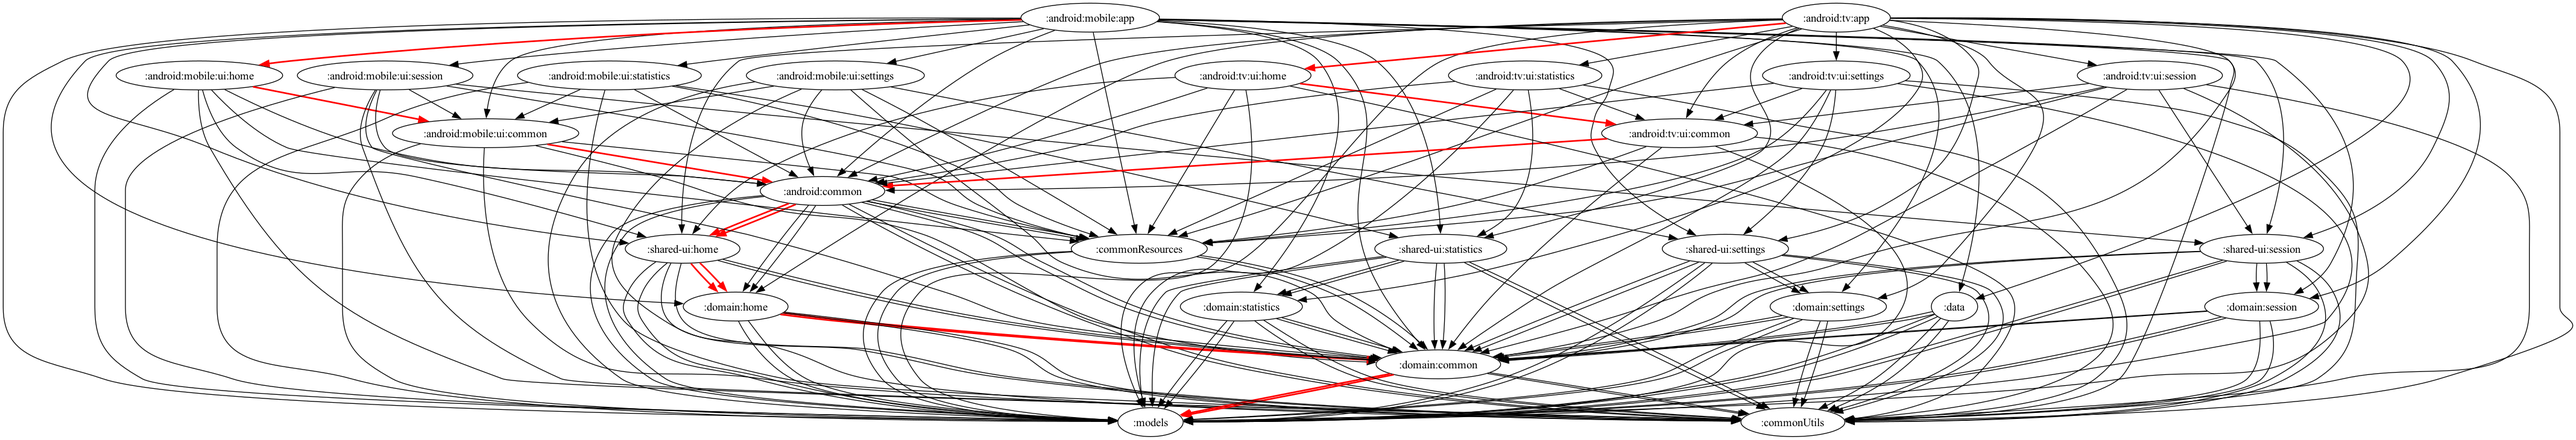
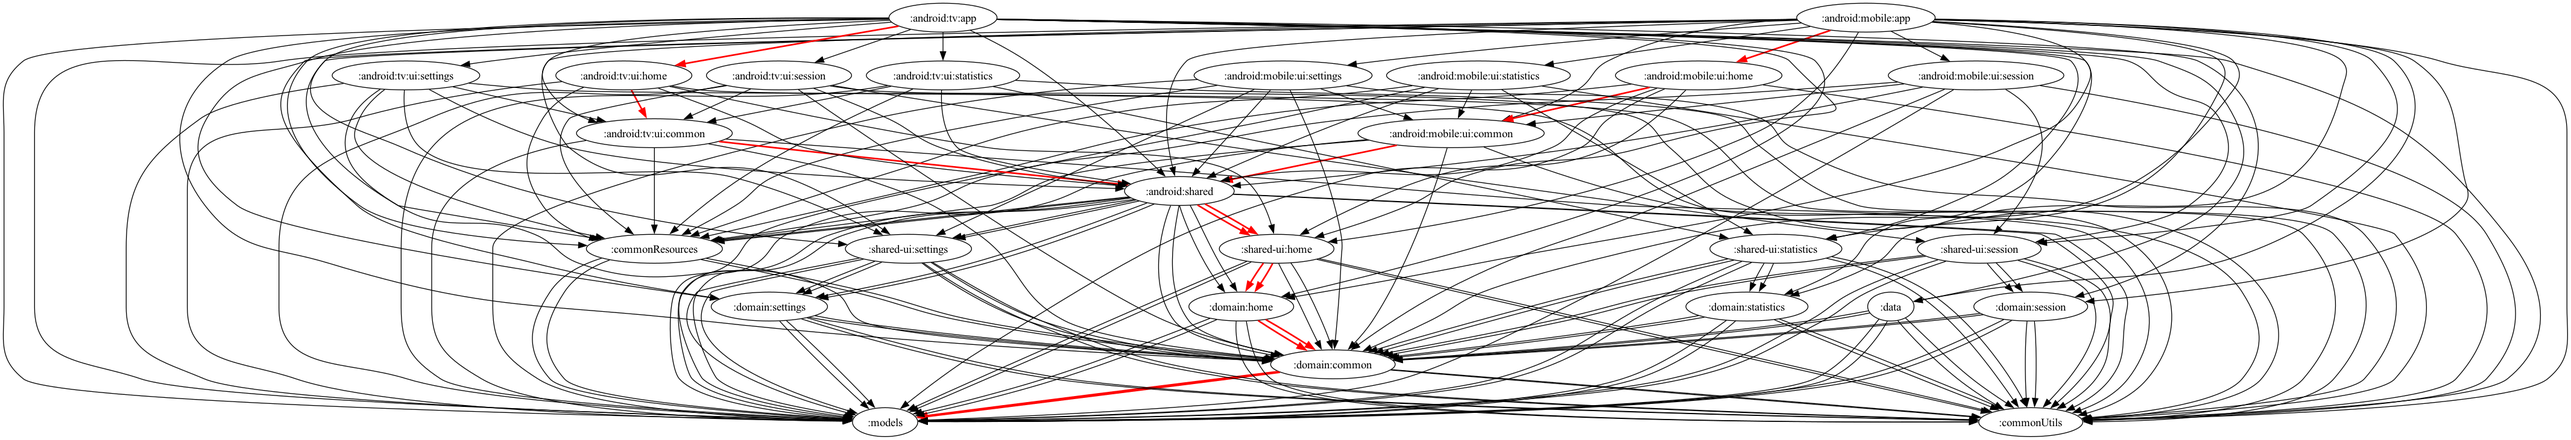
reorganisation of folders

diff --git a/android/mobile/ui/home/src/main/java/fr/shiningcat/simplehiit/android/mobile/ui/home/components/HomeTopBarComponent.kt b/android/mobile/ui/home/src/main/java/fr/shiningcat/simplehiit/android/mobile/ui/home/components/HomeTopBarComponent.kt
@@ -24,8 +24,8 @@ import androidx.compose.ui.res.vectorResource
 import androidx.compose.ui.tooling.preview.PreviewFontScale
 import androidx.compose.ui.tooling.preview.PreviewLightDark
 import androidx.compose.ui.tooling.preview.PreviewScreenSizes
-import fr.shiningcat.simplehiit.android.common.Screen
 import fr.shiningcat.simplehiit.android.mobile.ui.common.theme.SimpleHiitMobileTheme
+import fr.shiningcat.simplehiit.android.shared.core.Screen
 import fr.shiningcat.simplehiit.commonresources.R
 import fr.shiningcat.simplehiit.sharedui.home.HomeViewState
 
@@ -46,14 +46,14 @@ fun HomeTopBarComponent(
             )
         },
         actions = {
-            IconButton(onClick = { navigateTo(fr.shiningcat.simplehiit.android.common.Screen.About) }) {
+            IconButton(onClick = { navigateTo(fr.shiningcat.simplehiit.android.shared.core.Screen.About) }) {
                 Icon(
                     imageVector = ImageVector.vectorResource(R.drawable.question_mark),
                     contentDescription = stringResource(id = R.string.about_button_content_label),
                     tint = MaterialTheme.colorScheme.onPrimary,
                 )
             }
-            IconButton(onClick = { navigateTo(fr.shiningcat.simplehiit.android.common.Screen.Settings) }) {
+            IconButton(onClick = { navigateTo(fr.shiningcat.simplehiit.android.shared.core.Screen.Settings) }) {
                 Icon(
                     imageVector = ImageVector.vectorResource(R.drawable.cog),
                     contentDescription = stringResource(id = R.string.settings_button_content_label),
@@ -61,7 +61,7 @@ fun HomeTopBarComponent(
                 )
             }
             if (screenViewState is HomeViewState.Nominal) {
-                IconButton(onClick = { navigateTo(fr.shiningcat.simplehiit.android.common.Screen.Statistics) }) {
+                IconButton(onClick = { navigateTo(fr.shiningcat.simplehiit.android.shared.core.Screen.Statistics) }) {
                     Icon(
                         imageVector = ImageVector.vectorResource(R.drawable.bar_chart),
                         contentDescription = stringResource(id = R.string.statistics_button_content_label),

diff --git a/android/mobile/ui/home/src/main/java/fr/shiningcat/simplehiit/android/mobile/ui/home/HomeScreen.kt b/android/mobile/ui/home/src/main/java/fr/shiningcat/simplehiit/android/mobile/ui/home/HomeScreen.kt
@@ -13,8 +13,6 @@ import androidx.compose.ui.tooling.preview.PreviewParameter
 import androidx.compose.ui.tooling.preview.PreviewParameterProvider
 import androidx.compose.ui.tooling.preview.PreviewScreenSizes
 import androidx.lifecycle.compose.collectAsStateWithLifecycle
-import fr.shiningcat.simplehiit.android.common.Screen
-import fr.shiningcat.simplehiit.android.common.viewmodels.HomeViewModel
 import fr.shiningcat.simplehiit.android.mobile.ui.common.UiArrangement
 import fr.shiningcat.simplehiit.android.mobile.ui.common.components.NavigationSideBar
 import fr.shiningcat.simplehiit.android.mobile.ui.common.helpers.currentUiArrangement
@@ -22,6 +20,8 @@ import fr.shiningcat.simplehiit.android.mobile.ui.common.helpers.mainContentInse
 import fr.shiningcat.simplehiit.android.mobile.ui.common.theme.SimpleHiitMobileTheme
 import fr.shiningcat.simplehiit.android.mobile.ui.home.components.HomeTopBarComponent
 import fr.shiningcat.simplehiit.android.mobile.ui.home.contents.HomeContentHolder
+import fr.shiningcat.simplehiit.android.shared.core.Screen
+import fr.shiningcat.simplehiit.android.shared.home.HomeViewModel
 import fr.shiningcat.simplehiit.commonutils.HiitLogger
 import fr.shiningcat.simplehiit.domain.common.models.CyclesModification
 import fr.shiningcat.simplehiit.domain.common.models.User
@@ -57,7 +57,7 @@ fun HomeScreen(
 
 @Composable
 private fun HomeScreen(
-    navigateTo: (fr.shiningcat.simplehiit.android.common.Screen) -> Unit = {},
+    navigateTo: (fr.shiningcat.simplehiit.android.shared.core.Screen) -> Unit = {},
     onResetWholeApp: () -> Unit = {},
     onResetWholeAppDeleteEverything: () -> Unit = {},
     decreaseNumberOfCycles: () -> Unit = {},
@@ -74,7 +74,7 @@ private fun HomeScreen(
             NavigationSideBar(
                 // This component handles its own insets
                 navigateTo = navigateTo,
-                currentDestination = fr.shiningcat.simplehiit.android.common.Screen.Home,
+                currentDestination = fr.shiningcat.simplehiit.android.shared.core.Screen.Home,
                 showStatisticsButton = viewState is HomeViewState.Nominal,
             )
         }

diff --git a/android/tv/ui/home/src/main/java/fr/shiningcat/simplehiit/android/tv/ui/home/contents/HomeContentHolder.kt b/android/tv/ui/home/src/main/java/fr/shiningcat/simplehiit/android/tv/ui/home/contents/HomeContentHolder.kt
@@ -7,7 +7,7 @@ import androidx.compose.ui.tooling.preview.PreviewParameterProvider
 import androidx.tv.material3.ExperimentalTvMaterial3Api
 import androidx.tv.material3.MaterialTheme
 import androidx.tv.material3.Surface
-import fr.shiningcat.simplehiit.android.common.Screen
+import fr.shiningcat.simplehiit.android.shared.core.Screen
 import fr.shiningcat.simplehiit.android.tv.ui.common.components.BasicLoading
 import fr.shiningcat.simplehiit.android.tv.ui.common.components.DialogWarning
 import fr.shiningcat.simplehiit.android.tv.ui.common.previews.PreviewTvScreens
@@ -44,7 +44,7 @@ fun HomeContentHolder(
         }
         is HomeViewState.MissingUsers -> {
             HomeMissingUsersContent(
-                navigateToSettings = { navigateTo(fr.shiningcat.simplehiit.android.common.Screen.Settings) },
+                navigateToSettings = { navigateTo(fr.shiningcat.simplehiit.android.shared.core.Screen.Settings) },
             )
         }
         is HomeViewState.Nominal -> {
@@ -56,7 +56,7 @@ fun HomeContentHolder(
                 totalLengthFormatted = screenViewState.totalSessionLengthFormatted,
                 users = screenViewState.users,
                 toggleSelectedUser = toggleSelectedUser,
-                navigateToSession = { navigateTo(fr.shiningcat.simplehiit.android.common.Screen.Session) },
+                navigateToSession = { navigateTo(fr.shiningcat.simplehiit.android.shared.core.Screen.Session) },
                 warning = screenViewState.warning,
                 hiitLogger = hiitLogger,
             )

diff --git a/android/mobile/ui/settings/src/main/java/fr/shiningcat/simplehiit/android/mobile/ui/settings/SettingsScreen.kt b/android/mobile/ui/settings/src/main/java/fr/shiningcat/simplehiit/android/mobile/ui/settings/SettingsScreen.kt
@@ -15,8 +15,6 @@ import androidx.compose.ui.tooling.preview.PreviewParameter
 import androidx.compose.ui.tooling.preview.PreviewParameterProvider
 import androidx.compose.ui.tooling.preview.PreviewScreenSizes
 import androidx.lifecycle.compose.collectAsStateWithLifecycle
-import fr.shiningcat.simplehiit.android.common.Screen
-import fr.shiningcat.simplehiit.android.common.viewmodels.SettingsViewModel
 import fr.shiningcat.simplehiit.android.mobile.ui.common.UiArrangement
 import fr.shiningcat.simplehiit.android.mobile.ui.common.components.NavigateUpTopBar
 import fr.shiningcat.simplehiit.android.mobile.ui.common.components.NavigationSideBar
@@ -24,6 +22,8 @@ import fr.shiningcat.simplehiit.android.mobile.ui.common.helpers.currentUiArrang
 import fr.shiningcat.simplehiit.android.mobile.ui.common.helpers.mainContentInsets
 import fr.shiningcat.simplehiit.android.mobile.ui.common.theme.SimpleHiitMobileTheme
 import fr.shiningcat.simplehiit.android.mobile.ui.settings.contents.SettingsContentHolder
+import fr.shiningcat.simplehiit.android.shared.core.Screen
+import fr.shiningcat.simplehiit.android.shared.home.SettingsViewModel
 import fr.shiningcat.simplehiit.commonresources.R
 import fr.shiningcat.simplehiit.commonutils.HiitLogger
 import fr.shiningcat.simplehiit.domain.common.Constants

diff --git a/android/mobile/ui/statistics/src/main/java/fr/shiningcat/simplehiit/android/mobile/ui/statistics/StatisticsScreen.kt b/android/mobile/ui/statistics/src/main/java/fr/shiningcat/simplehiit/android/mobile/ui/statistics/StatisticsScreen.kt
@@ -13,7 +13,6 @@ import androidx.compose.ui.tooling.preview.PreviewParameter
 import androidx.compose.ui.tooling.preview.PreviewParameterProvider
 import androidx.compose.ui.tooling.preview.PreviewScreenSizes
 import androidx.lifecycle.compose.collectAsStateWithLifecycle
-import fr.shiningcat.simplehiit.android.common.Screen
 import fr.shiningcat.simplehiit.android.mobile.ui.common.UiArrangement
 import fr.shiningcat.simplehiit.android.mobile.ui.common.components.NavigationSideBar
 import fr.shiningcat.simplehiit.android.mobile.ui.common.helpers.currentUiArrangement
@@ -21,6 +20,7 @@ import fr.shiningcat.simplehiit.android.mobile.ui.common.helpers.mainContentInse
 import fr.shiningcat.simplehiit.android.mobile.ui.common.theme.SimpleHiitMobileTheme
 import fr.shiningcat.simplehiit.android.mobile.ui.statistics.components.StatisticsTopAppBar
 import fr.shiningcat.simplehiit.android.mobile.ui.statistics.contents.StatisticsContentHolder
+import fr.shiningcat.simplehiit.android.shared.core.Screen
 import fr.shiningcat.simplehiit.commonutils.HiitLogger
 import fr.shiningcat.simplehiit.domain.common.models.DisplayStatisticType
 import fr.shiningcat.simplehiit.domain.common.models.DisplayedStatistic

diff --git a/android/shared/src/main/java/fr/shiningcat/simplehiit/android/shared/di/SharedAndroidModule.kt b/android/shared/src/main/java/fr/shiningcat/simplehiit/android/shared/di/SharedAndroidModule.kt
@@ -1,16 +1,18 @@
-package fr.shiningcat.simplehiit.android.common.di
+package fr.shiningcat.simplehiit.android.shared.di
 
-import fr.shiningcat.simplehiit.android.common.NavigationViewModel
-import fr.shiningcat.simplehiit.android.common.viewmodels.HomeViewModel
-import fr.shiningcat.simplehiit.android.common.viewmodels.SettingsViewModel
+import fr.shiningcat.simplehiit.android.shared.core.NavigationViewModel
+import fr.shiningcat.simplehiit.android.shared.home.HomeViewModel
+import fr.shiningcat.simplehiit.android.shared.settings.SettingsViewModel
 import org.koin.core.module.dsl.viewModel
 import org.koin.core.qualifier.named
 import org.koin.dsl.module
 
-val commonAndroidModule =
+val sharedAndroidModule =
     module {
+        // === Core ===
         viewModel { NavigationViewModel(get()) }
 
+        // === Home Feature ===
         viewModel {
             HomeViewModel(
                 homePresenter = get(),
@@ -18,6 +20,7 @@ val commonAndroidModule =
             )
         }
 
+        // === Settings Feature ===
         viewModel {
             SettingsViewModel(
                 presenter = get(),

diff --git a/android/mobile/app/src/main/java/fr/shiningcat/simplehiit/android/mobile/app/SimpleHiitNavigation.kt b/android/mobile/app/src/main/java/fr/shiningcat/simplehiit/android/mobile/app/SimpleHiitNavigation.kt
@@ -4,14 +4,14 @@ import androidx.compose.runtime.Composable
 import androidx.navigation3.runtime.entryProvider
 import androidx.navigation3.runtime.rememberSaveableStateHolderNavEntryDecorator
 import androidx.navigation3.ui.NavDisplay
-import fr.shiningcat.simplehiit.android.common.NavigationViewModel
-import fr.shiningcat.simplehiit.android.common.Screen
 import fr.shiningcat.simplehiit.android.mobile.ui.common.AboutScreen
 import fr.shiningcat.simplehiit.android.mobile.ui.common.UiArrangement
 import fr.shiningcat.simplehiit.android.mobile.ui.home.HomeScreen
 import fr.shiningcat.simplehiit.android.mobile.ui.session.SessionScreen
 import fr.shiningcat.simplehiit.android.mobile.ui.settings.SettingsScreen
 import fr.shiningcat.simplehiit.android.mobile.ui.statistics.StatisticsScreen
+import fr.shiningcat.simplehiit.android.shared.core.NavigationViewModel
+import fr.shiningcat.simplehiit.android.shared.core.Screen
 import fr.shiningcat.simplehiit.commonutils.HiitLogger
 import org.koin.androidx.compose.koinViewModel
 

diff --git a/android/mobile/ui/home/src/main/java/fr/shiningcat/simplehiit/android/mobile/ui/home/contents/HomeContentHolder.kt b/android/mobile/ui/home/src/main/java/fr/shiningcat/simplehiit/android/mobile/ui/home/contents/HomeContentHolder.kt
@@ -11,12 +11,12 @@ import androidx.compose.ui.tooling.preview.PreviewLightDark
 import androidx.compose.ui.tooling.preview.PreviewParameter
 import androidx.compose.ui.tooling.preview.PreviewParameterProvider
 import androidx.compose.ui.tooling.preview.PreviewScreenSizes
-import fr.shiningcat.simplehiit.android.common.Screen
 import fr.shiningcat.simplehiit.android.mobile.ui.common.UiArrangement
 import fr.shiningcat.simplehiit.android.mobile.ui.common.components.BasicLoading
 import fr.shiningcat.simplehiit.android.mobile.ui.common.components.WarningDialog
 import fr.shiningcat.simplehiit.android.mobile.ui.common.helpers.currentUiArrangement
 import fr.shiningcat.simplehiit.android.mobile.ui.common.theme.SimpleHiitMobileTheme
+import fr.shiningcat.simplehiit.android.shared.core.Screen
 import fr.shiningcat.simplehiit.commonresources.R
 import fr.shiningcat.simplehiit.commonutils.HiitLogger
 import fr.shiningcat.simplehiit.domain.common.models.User

diff --git a/android/mobile/ui/common/src/main/java/fr/shiningcat/simplehiit/android/mobile/ui/common/AboutScreen.kt b/android/mobile/ui/common/src/main/java/fr/shiningcat/simplehiit/android/mobile/ui/common/AboutScreen.kt
@@ -29,13 +29,13 @@ import androidx.compose.ui.tooling.preview.PreviewFontScale
 import androidx.compose.ui.tooling.preview.PreviewLightDark
 import androidx.compose.ui.tooling.preview.PreviewScreenSizes
 import androidx.core.net.toUri
-import fr.shiningcat.simplehiit.android.common.Screen
 import fr.shiningcat.simplehiit.android.common.ui.utils.getAppVersion
 import fr.shiningcat.simplehiit.android.mobile.ui.common.components.NavigateUpTopBar
 import fr.shiningcat.simplehiit.android.mobile.ui.common.components.NavigationSideBar
 import fr.shiningcat.simplehiit.android.mobile.ui.common.helpers.currentUiArrangement
 import fr.shiningcat.simplehiit.android.mobile.ui.common.helpers.mainContentInsets
 import fr.shiningcat.simplehiit.android.mobile.ui.common.theme.SimpleHiitMobileTheme
+import fr.shiningcat.simplehiit.android.shared.core.Screen
 import fr.shiningcat.simplehiit.commonresources.R
 
 @Composable

diff --git a/android/tv/ui/settings/src/main/java/fr/shiningcat/simplehiit/android/tv/ui/settings/SettingsScreen.kt b/android/tv/ui/settings/src/main/java/fr/shiningcat/simplehiit/android/tv/ui/settings/SettingsScreen.kt
@@ -13,8 +13,8 @@ import androidx.lifecycle.compose.collectAsStateWithLifecycle
 import androidx.tv.material3.ExperimentalTvMaterial3Api
 import androidx.tv.material3.MaterialTheme
 import androidx.tv.material3.Surface
-import fr.shiningcat.simplehiit.android.common.Screen
-import fr.shiningcat.simplehiit.android.common.viewmodels.SettingsViewModel
+import fr.shiningcat.simplehiit.android.shared.core.Screen
+import fr.shiningcat.simplehiit.android.shared.home.SettingsViewModel
 import fr.shiningcat.simplehiit.android.tv.ui.common.components.NavigationSideBar
 import fr.shiningcat.simplehiit.android.tv.ui.common.previews.PreviewTvScreens
 import fr.shiningcat.simplehiit.android.tv.ui.common.theme.SimpleHiitTvTheme

diff --git a/android/tv/app/src/main/java/fr/shiningcat/simplehiit/android/tv/app/SimpleHiitNavigation.kt b/android/tv/app/src/main/java/fr/shiningcat/simplehiit/android/tv/app/SimpleHiitNavigation.kt
@@ -5,8 +5,8 @@ import androidx.navigation3.runtime.entryProvider
 import androidx.navigation3.runtime.rememberSaveableStateHolderNavEntryDecorator
 import androidx.navigation3.ui.NavDisplay
 import androidx.tv.material3.ExperimentalTvMaterial3Api
-import fr.shiningcat.simplehiit.android.common.NavigationViewModel
-import fr.shiningcat.simplehiit.android.common.Screen
+import fr.shiningcat.simplehiit.android.shared.core.NavigationViewModel
+import fr.shiningcat.simplehiit.android.shared.core.Screen
 import fr.shiningcat.simplehiit.android.tv.ui.common.AboutScreen
 import fr.shiningcat.simplehiit.android.tv.ui.home.HomeScreen
 import fr.shiningcat.simplehiit.android.tv.ui.session.SessionScreen

diff --git a/android/tv/ui/home/src/main/java/fr/shiningcat/simplehiit/android/tv/ui/home/HomeScreen.kt b/android/tv/ui/home/src/main/java/fr/shiningcat/simplehiit/android/tv/ui/home/HomeScreen.kt
@@ -8,8 +8,8 @@ import androidx.tv.material3.ExperimentalTvMaterial3Api
 import androidx.tv.material3.MaterialTheme
 import androidx.tv.material3.NavigationDrawer
 import androidx.tv.material3.Surface
-import fr.shiningcat.simplehiit.android.common.Screen
-import fr.shiningcat.simplehiit.android.common.viewmodels.HomeViewModel
+import fr.shiningcat.simplehiit.android.shared.core.Screen
+import fr.shiningcat.simplehiit.android.shared.home.HomeViewModel
 import fr.shiningcat.simplehiit.android.tv.ui.common.components.NavigationSideBar
 import fr.shiningcat.simplehiit.android.tv.ui.common.previews.PreviewTvScreens
 import fr.shiningcat.simplehiit.android.tv.ui.common.theme.SimpleHiitTvTheme
